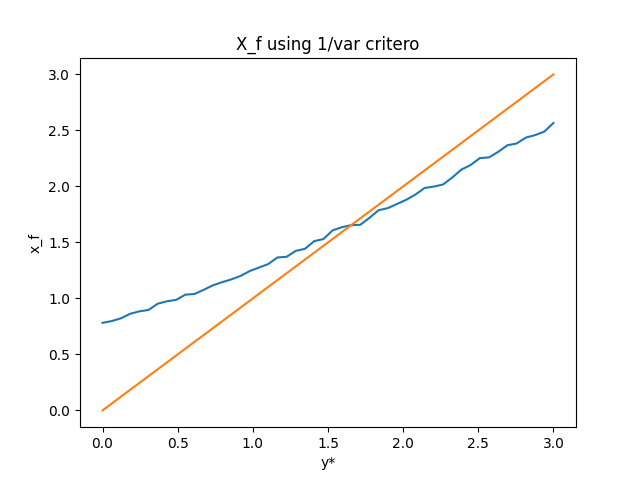
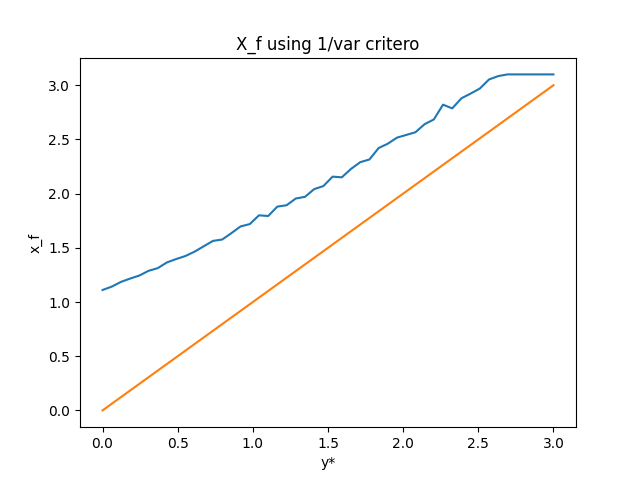
correcting x -> x**2

diff --git a/problem2.py b/problem2.py
@@ -96,8 +96,8 @@ def u2(x0, x1, sigma, tau, x, Delta, y, m1, sigma1):
     float: The utility funciton for model 2.
     """
     sqrt = (1 + (x**2) * sigma / Delta) ** (-1/2)
-    exp = np.exp(-(0.5) * ((m1**2 / sigma1) + (y**2 / Delta) - (m1 / sigma1 + x * y / np.sqrt(Delta))**2 / (1 / sigma1 + x**2 / Delta)))
-    return ((x1**2 + x0**2) / sigma + (x / tau) * sqrt * exp)
+    exp = np.exp(-(0.5) * ((m1**2 / sigma1) + (y**2 / Delta) - (m1 / sigma1 + x * y / Delta)**2 / (1 / sigma1 + x**2 / Delta)))
+    return ((x1**2 + x0**2) / sigma + (x**2 / tau) * sqrt * exp)
 
 def tau_a(tauS, yS, y, Delta):
     """
@@ -154,7 +154,7 @@ def plot_u(x0_in, x1_in, sigma_in, tau_in, tauS_in, x_in, Delta_in, yS_in, m1_in
     plt.xlabel('x')
     plt.ylabel('U(x)')
     plt.legend()  # Show legend
-    plt.savefig('{:.3f}.png'.format(Delta_in))  # Display the plot
+    plt.savefig('{:.5f}.png'.format(np.sqrt(Delta_in)))  # Display the plot
     plt.close()
 
 # Define constants for the simulation
@@ -171,13 +171,13 @@ yS = 1.5 #y star
 y0, y1 = linear_measure(np.array([x0, x1]), theta, sigma)
 
 # Loop through different values of sigmaB and plot the results
-for Delta_sqrt in np.linspace(0.4, 0.7, 6): 
+for Delta_sqrt in np.linspace(0.001, 0.02, 6): 
 
     Delta = Delta_sqrt ** 2
     sigma1 = sigma1_(x1, x0, sigma)
     m1 = m1_(x1, x0, y1, y0)
     x = np.linspace(0, xmax, 1000)
-    #plot_u(x0, x1, sigma, tau, tauS, x, Delta, yS, m1, sigma1, theta)  # Call plotting function
+    plot_u(x0, x1, sigma, tau, tauS, x, Delta, yS, m1, sigma1, theta)  # Call plotting function
     
 
 # Compute and plot optimal experiment results
